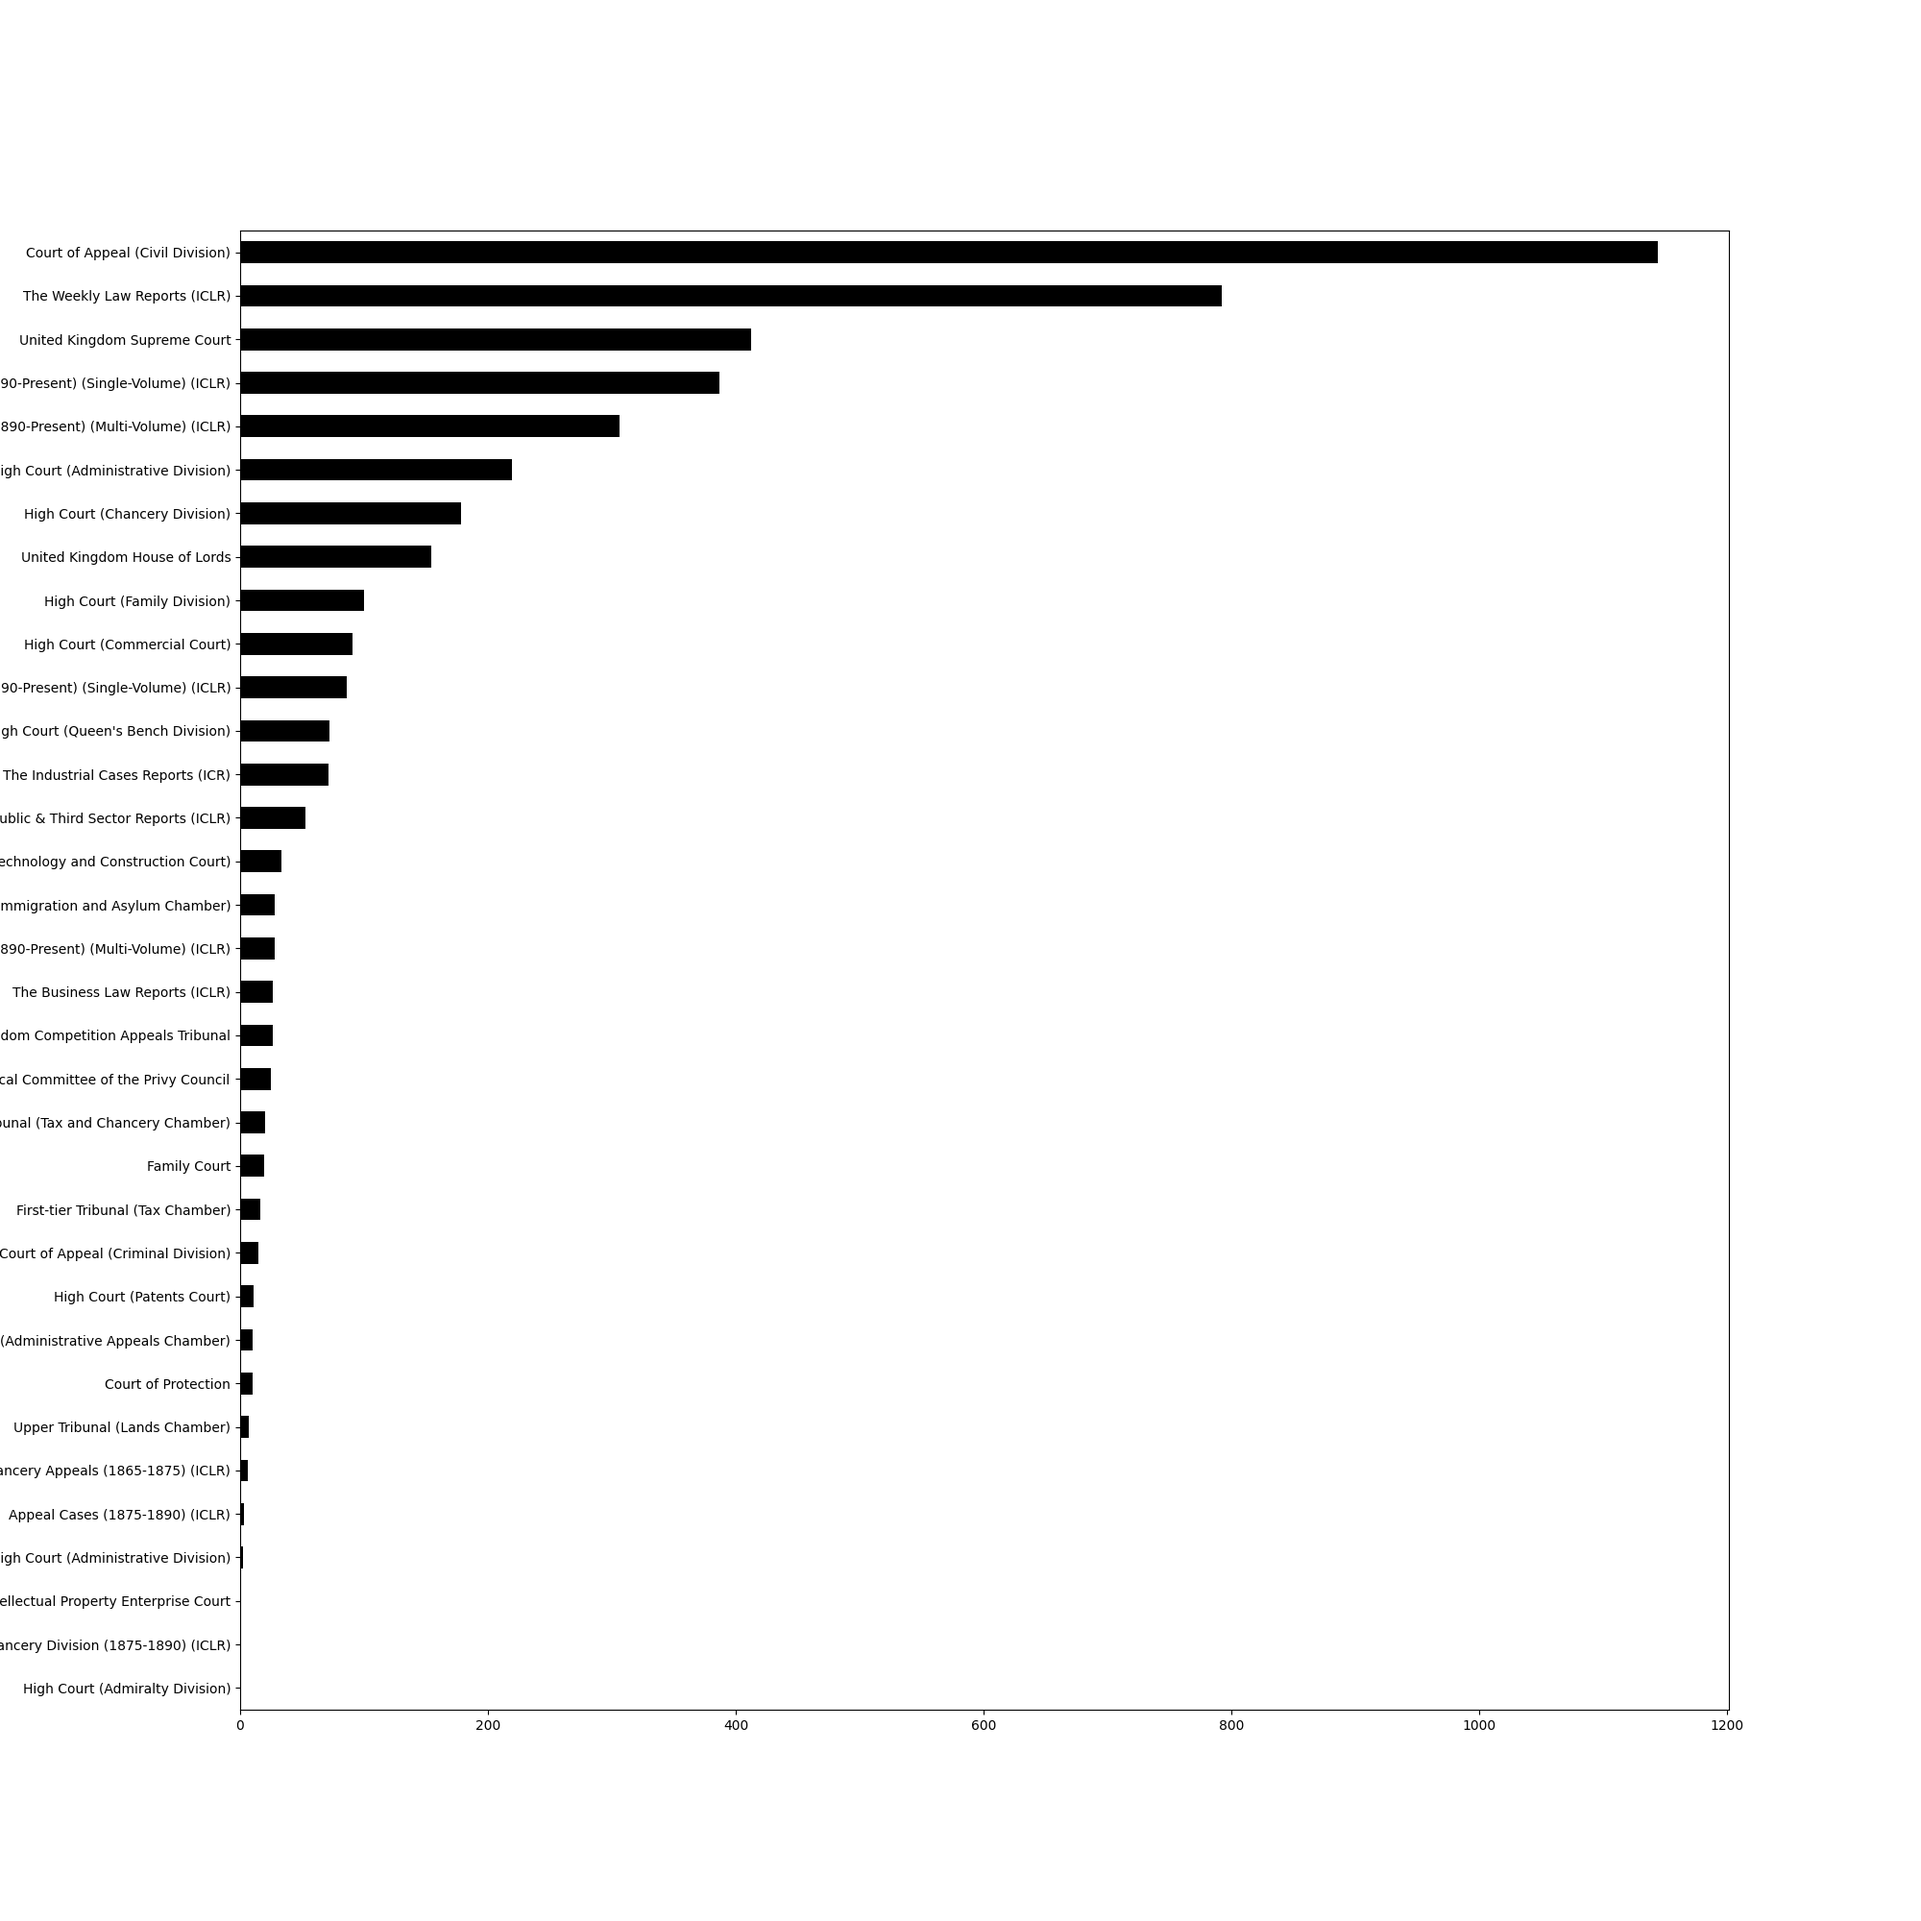
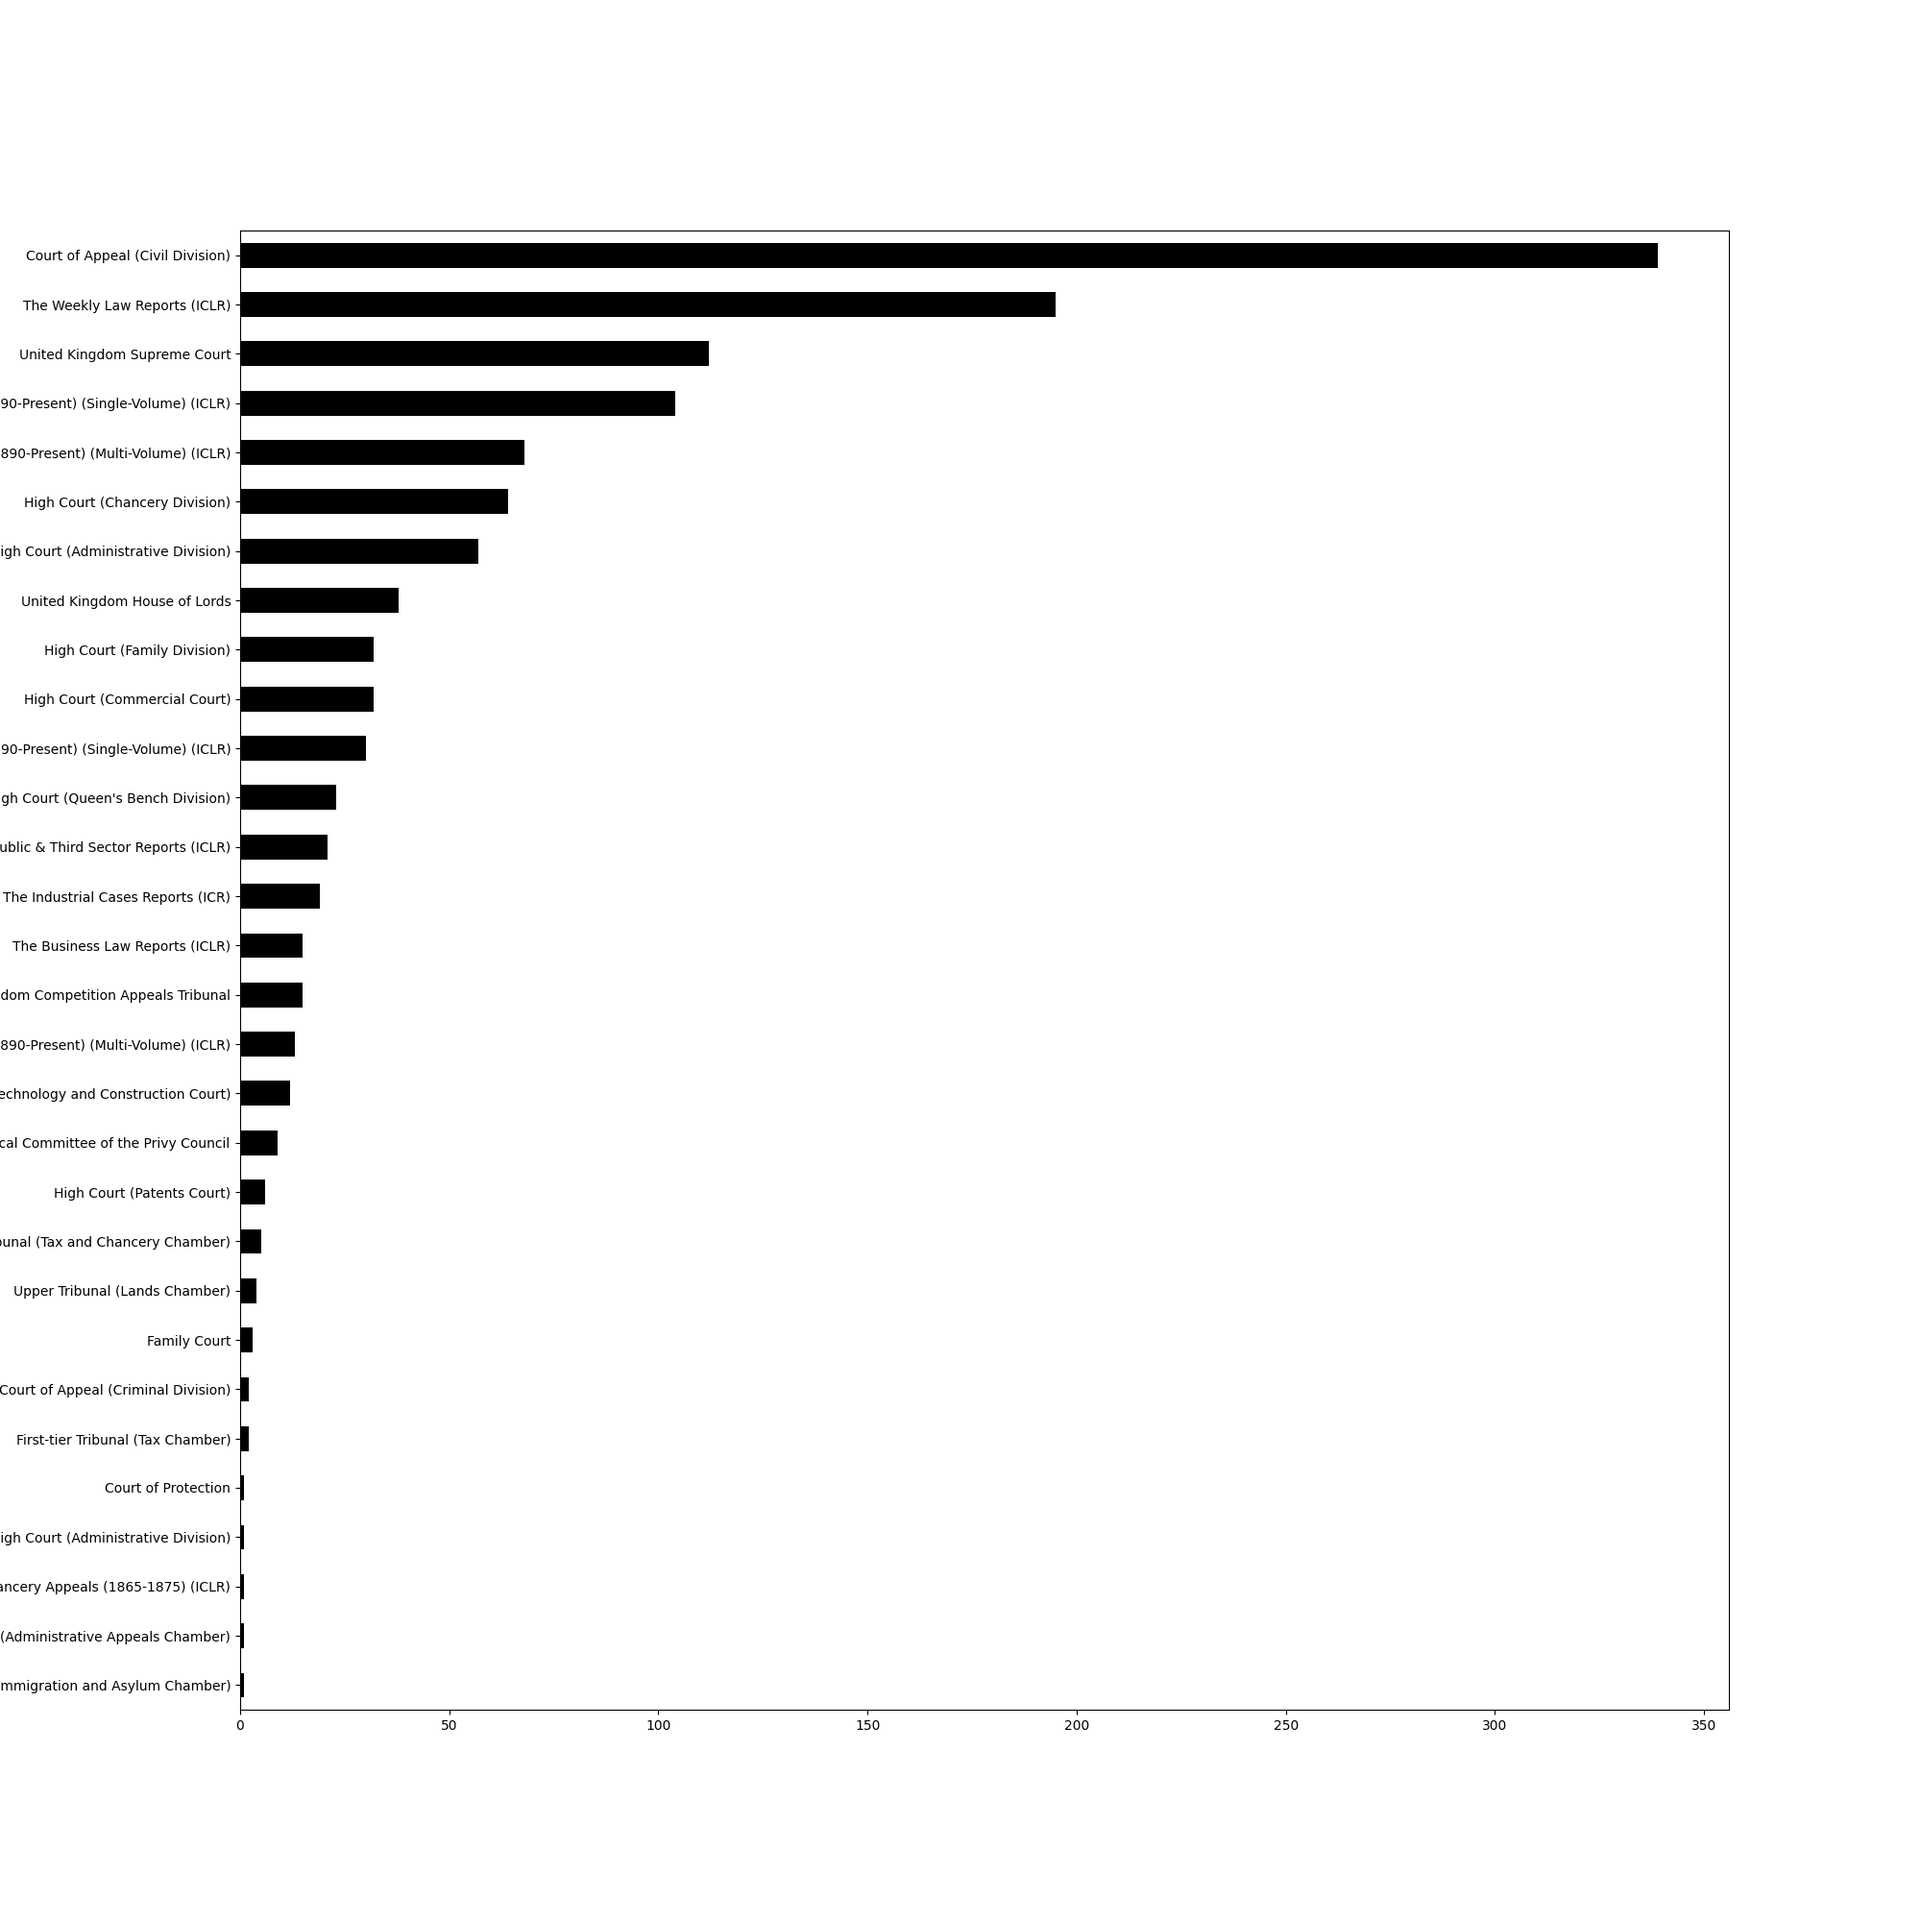
Add string replacement logic

Changed region(s): [[0.0, 0.124, 0.837, 0.682], [0.0, 0.713, 0.124, 0.899]]

diff --git a/demo_bulk_process_citations.py b/demo_bulk_process_citations.py
@@ -48,6 +48,14 @@ def analyse_matched_ids(MATCHED_RULE_ID):
     df.plot(x="rule_name", y=0, kind="barh", figsize=(20,20), legend=False, color="black")
     plt.savefig("plots/matched_rules.png")
 
+def replacer(file_data, replacement):
+    """Do a basic replacement in the XML"""
+    replacement_string = f'<ref type="case" canonical_form"{replacement[1]}">{replacement[0]}</ref>'
+    file_data = str(file_data).replace(replacement[0], replacement_string)
+    return file_data
+
+
+
 ROOTDIR = "tna-backcatalogue/ewca/civ/2020"
 rules_manifest = load_manifest()
 nlp = English()
@@ -57,7 +65,8 @@ citation_ruler = nlp.add_pipe("entity_ruler").from_disk("rules/citation_patterns
 MATCHED_RULE_ID = []
 
 for subdir, dirs, files in os.walk(ROOTDIR):
-    for file in files:
+    for file in files[:100]:
+        REPLACEMENTS = []
         file_path = os.path.join(subdir, file)
         with open(file_path, "r", encoding="utf-8") as file_in:
             print(file)
@@ -72,9 +81,20 @@ for subdir, dirs, files in os.walk(ROOTDIR):
                 MATCHED_RULE_ID.append(rule_id_)
                 if check_if_canonical(rule_id_) == False:
                     corrected_citation = correct_malformed_citation(rule_id_, citation_match)
-                    print ("CORRECTED:", corrected_citation)
+                    print ("-----> CORRECTED:", corrected_citation, file)
+                    replacement_entry = (citation_match, corrected_citation)
                 else:
-                    pass
+                    replacement_entry = (citation_match, citation_match)
+                REPLACEMENTS.append(replacement_entry)
+        
+        for replacement in REPLACEMENTS:
+            file_data = replacer(file_data, replacement)
+        
+        output_file = f"output/{file}".replace(".xml", "_enriched.xml")
+
+        with open(output_file, "w") as data_out:
+            data_out.write(file_data)
+
 
 analyse_matched_ids(MATCHED_RULE_ID)
 
